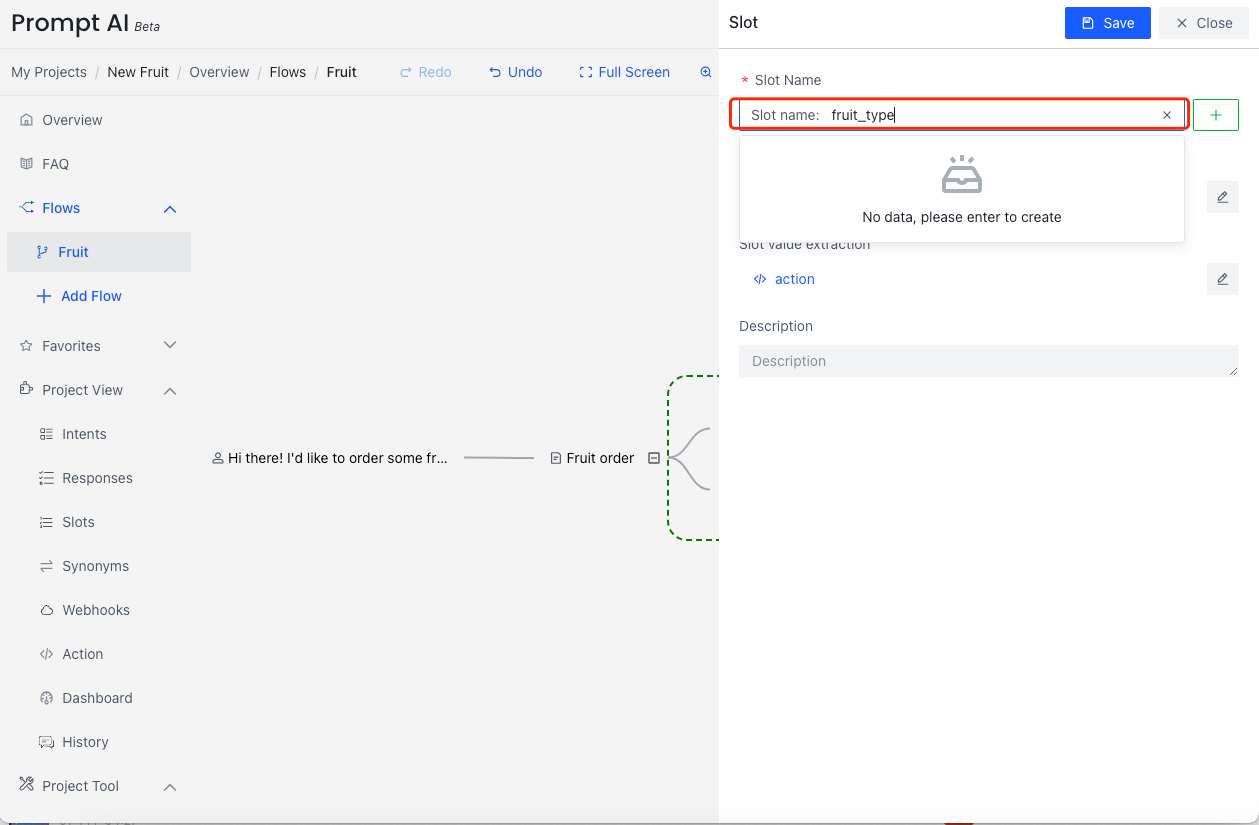
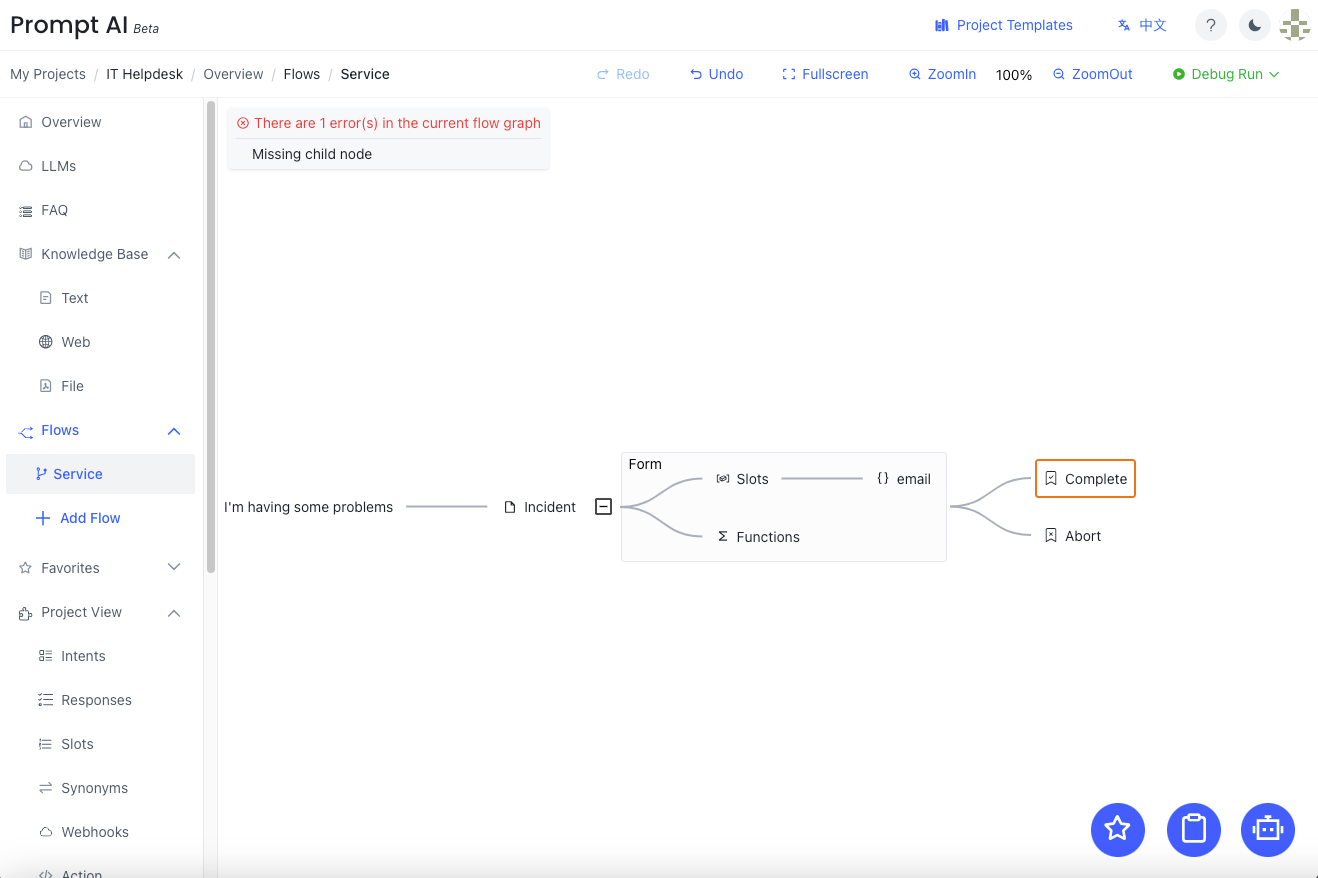
1、update form 2、clear expired images

diff --git a/docs/tutorial/form.md b/docs/tutorial/form.md
@@ -4,22 +4,21 @@ title: Form
 parent: Developer's Guide
 nav_order: 7
 ---
-In PromptDialog, Form is a component that collects a set of information from the user. The information will be stored in slots. In the following example, the bot collects the information of fruit type and quantity from the user, and confirm with the user after completion. This information collection conversation can be implemented by form with two required slots: `fruit_type` and `fruit_quantity`. 
+In PromptDialog, Form is a component that collects a set of information from the user. The information will be stored in slots. In the following example, the bot collects the information of email and problem from the user, and confirm with the user after completion. This information collection conversation can be implemented by form with two required slots: `email` and `problem`. 
 
 ```text
-Bot : Hello!
+Bot : Hello! Welcome to help center.
       What can i do for you?
-User: Hi there! I'd like to order some fruits
+User: Hi there! I'm having an issue with my account.
 
-# Collect the type and quantity of fruit ordered by the user through the Form
-Bot : Perfect! What kinds of fruits would you like to order?
-User: I'd like some apples, please
-Bot : Great! And how much apples would you like to order?
-User: Let's go with 5 apples
+# Collect the email and problem through the Form
+Bot : What is the problem description for the issue?
+User: I can't check my balance
+Bot : What is your email address to lookup for creating the incident?
+User: This is my email address example@example.com
 
-Bot : Perfect! I have your order 5 apples.
-User: Thanks
-Bot : You are welcome! I'll prepare your order with 5 apples, fell free to ask!
+Bot : Successfully opened up incident INC0010005 for you. Someone will reach out soon.
+Bot : The ticket link: https://example.com/ticket/INC0010005
 ```
 There are other similar scenarios that can be handled by Form:
 - Check the weather: Collect the location and time to check the weather conditions in real time.
@@ -28,23 +27,23 @@ There are other similar scenarios that can be handled by Form:
 
 
 ## How to use Form?
-Next, we will introduce how to create the example of user-ordered fruit mentioned above.
+Next, we will introduce how to create the example of IT helpdesk mentioned above.
 
 ### Create Fruit Dialog flow
-![form0.png](/assets/images/form0.png)
+![form-01.png](/assets/images/tutorial/form/form-01.png)
 
-Next, we create a `Bot` node to say hello and a `User` node to show the intent to buy fruit
-![form1.png](/assets/images/form1.png)
+Next, we create a `User` node to start collect information
+![form-02.png](/assets/images/tutorial/form/form-02.png)
 
 ## Create fruit form
 Click the `User` node and select `Form` in the pop-up menu and click `Add GPT Form Node`.There are two input fields:
-- Name       : The name of the Form can be set according to the function, here we fill in `Fruit Order`.
+- Name       : The name of the Form can be set according to the function, here we fill in `Incident`.
 - Description: The Prompt used by GPT tells GPT what the form need to do.
 
-![form2.png](/assets/images/form2.png)
+![form-03.png](/assets/images/tutorial/form/form-03.png)
 
-Four pieces of information need to be completed after creating `Fruit Order`
-![form3.png](/assets/images/form3.png)
+Four pieces of information need to be completed after creating `Incident`
+![form-04.png](/assets/images/tutorial/form/form-04.png)
 
 |  Name        | Required | Desc                                                   |
 |--------------|----------|--------------------------------------------------------|
@@ -54,41 +53,47 @@ Four pieces of information need to be completed after creating `Fruit Order`
 | Complete      |    Yes   | After the form runs successfully                       |
   
 ## Slots
-We need to collect `fruit_type` and `fruit_quantity` from users through Slots, and then explain in detail how to add `fruit_type`
+We need to collect `email` and `problem` from users through Slots, and then explain in detail how to add `fruit_type`
 
 Click on the `Slots` node and select `Add Slot` from the pop-up menu
-![form4.png](/assets/images/form4.png)
+![form-05.png](/assets/images/tutorial/form/form-05.png)
 
 In the pop-up Slot window, we need to pay attention to the input `Slot Name`、`Slot Question` and `Description`
-- Slot Name     : Fill in the name of the Slot `fruit_type` (enter the name and press Enter to create)
+- Slot Name     : Fill in the name of the Slot `email` (enter the name and press Enter to create)
 - Slot Question : A sentence to prompt the user to enter the information in the question.
 - Description   : The Prompt used by GPT tells GPT how to extract Slot from user input.
 
 More details [Slots Config](/docs/tutorial/slot_config/)
 
-![form5.png](/assets/images/form5.png)
+![form-06.png](/assets/images/tutorial/form/form-06.png)
 
-So far, the `fruit_type` slot has been created.
-![form6.png](/assets/images/form6.png)
+So far, the `email` slot has been created.
+![form-07.png](/assets/images/tutorial/form/form-07.png)
 
-Add `fruit_quantity` slot like this:
-![form7.png](/assets/images/form7.png)
+Add `problem` slot like this:
+![form-08.png](/assets/images/tutorial/form/form-08.png)
+
+## Functions
+The function provides methods to validate and change slots during the form collection process. If you need to check the quantity, 
+logic or validity of slots while filling out a form, such as limiting the number of people to no more than 6 people during a restaurant reservation form, 
+or wanting the fruit names entered by users to be converted into scientific names during a fruit purchase process... 
+If you wish to modify a slot, you can use the function feature. Define a function and describe its purpose in the description. 
+Then, specify the involved slot names in the param section. GPT will automatically check and call these functions during the form execution process.
 
 ## Abort
 During the ordering process, the user may exit the conversation
-- Actually, I've changed my mind. I won't buy any fruits today. (Exit From, stop order)
+- Actually, I've changed my mind. I won't buy any fruits today. (Exit From, stop collect information)
 
 ## Complete
-The `Complete` node handles the completion of the collection form, here we confirm the order to the user
-![form8.png](/assets/images/form8.png)
+The `Complete` node handles the completion of the collection form
+![form-09.png](/assets/images/tutorial/form/form-09.png)
 
 ## The complete flow diagram is as follows:
-![form9.png](/assets/images/form9.png)
-![form10.png](/assets/images/form10.png)
+![form-10.png](/assets/images/tutorial/form/form-10.png)
+![form-11.png](/assets/images/tutorial/form/form-11.png)
 
 ## Test Run
-![form11.png](/assets/images/form11.png)
-
+![form-12.png](/assets/images/tutorial/form/form-12.png)
 ---
 
 # FAQ
@@ -99,16 +104,12 @@ Example:
 ```text
 Bot : Hello!
       What can i do for you?
-User: Hi there! I'd like to order some fruits
+User: Hi there! I'm having an issue with my account.
 
-Bot : Perfect! What kinds of fruits would you like to order?
-# quantity and fruit type in one sentence
-User: Let's go with 5 apples
+Bot :  What is the problem description for the issue?
+# problem and email in one reply
+User: I cannot check my balance, if I can check my balance again, please send an email to example@example.com
 
-Bot : Perfect! I have your order 5 apples.
-User: Thanks
-Bot : You are welcome! I'll prepare your order with 5 apples, fell free to ask!
+Bot : Successfully opened up incident INC0010005 for you. Someone will reach out soon.
+Bot : The ticket link: https://example.com/ticket/INC0010005
 ```
-
-<!-- ## How to write prompt? -->
-<!-- Form中对应部分Prompt 如何写？ Function 如何写？ -->
